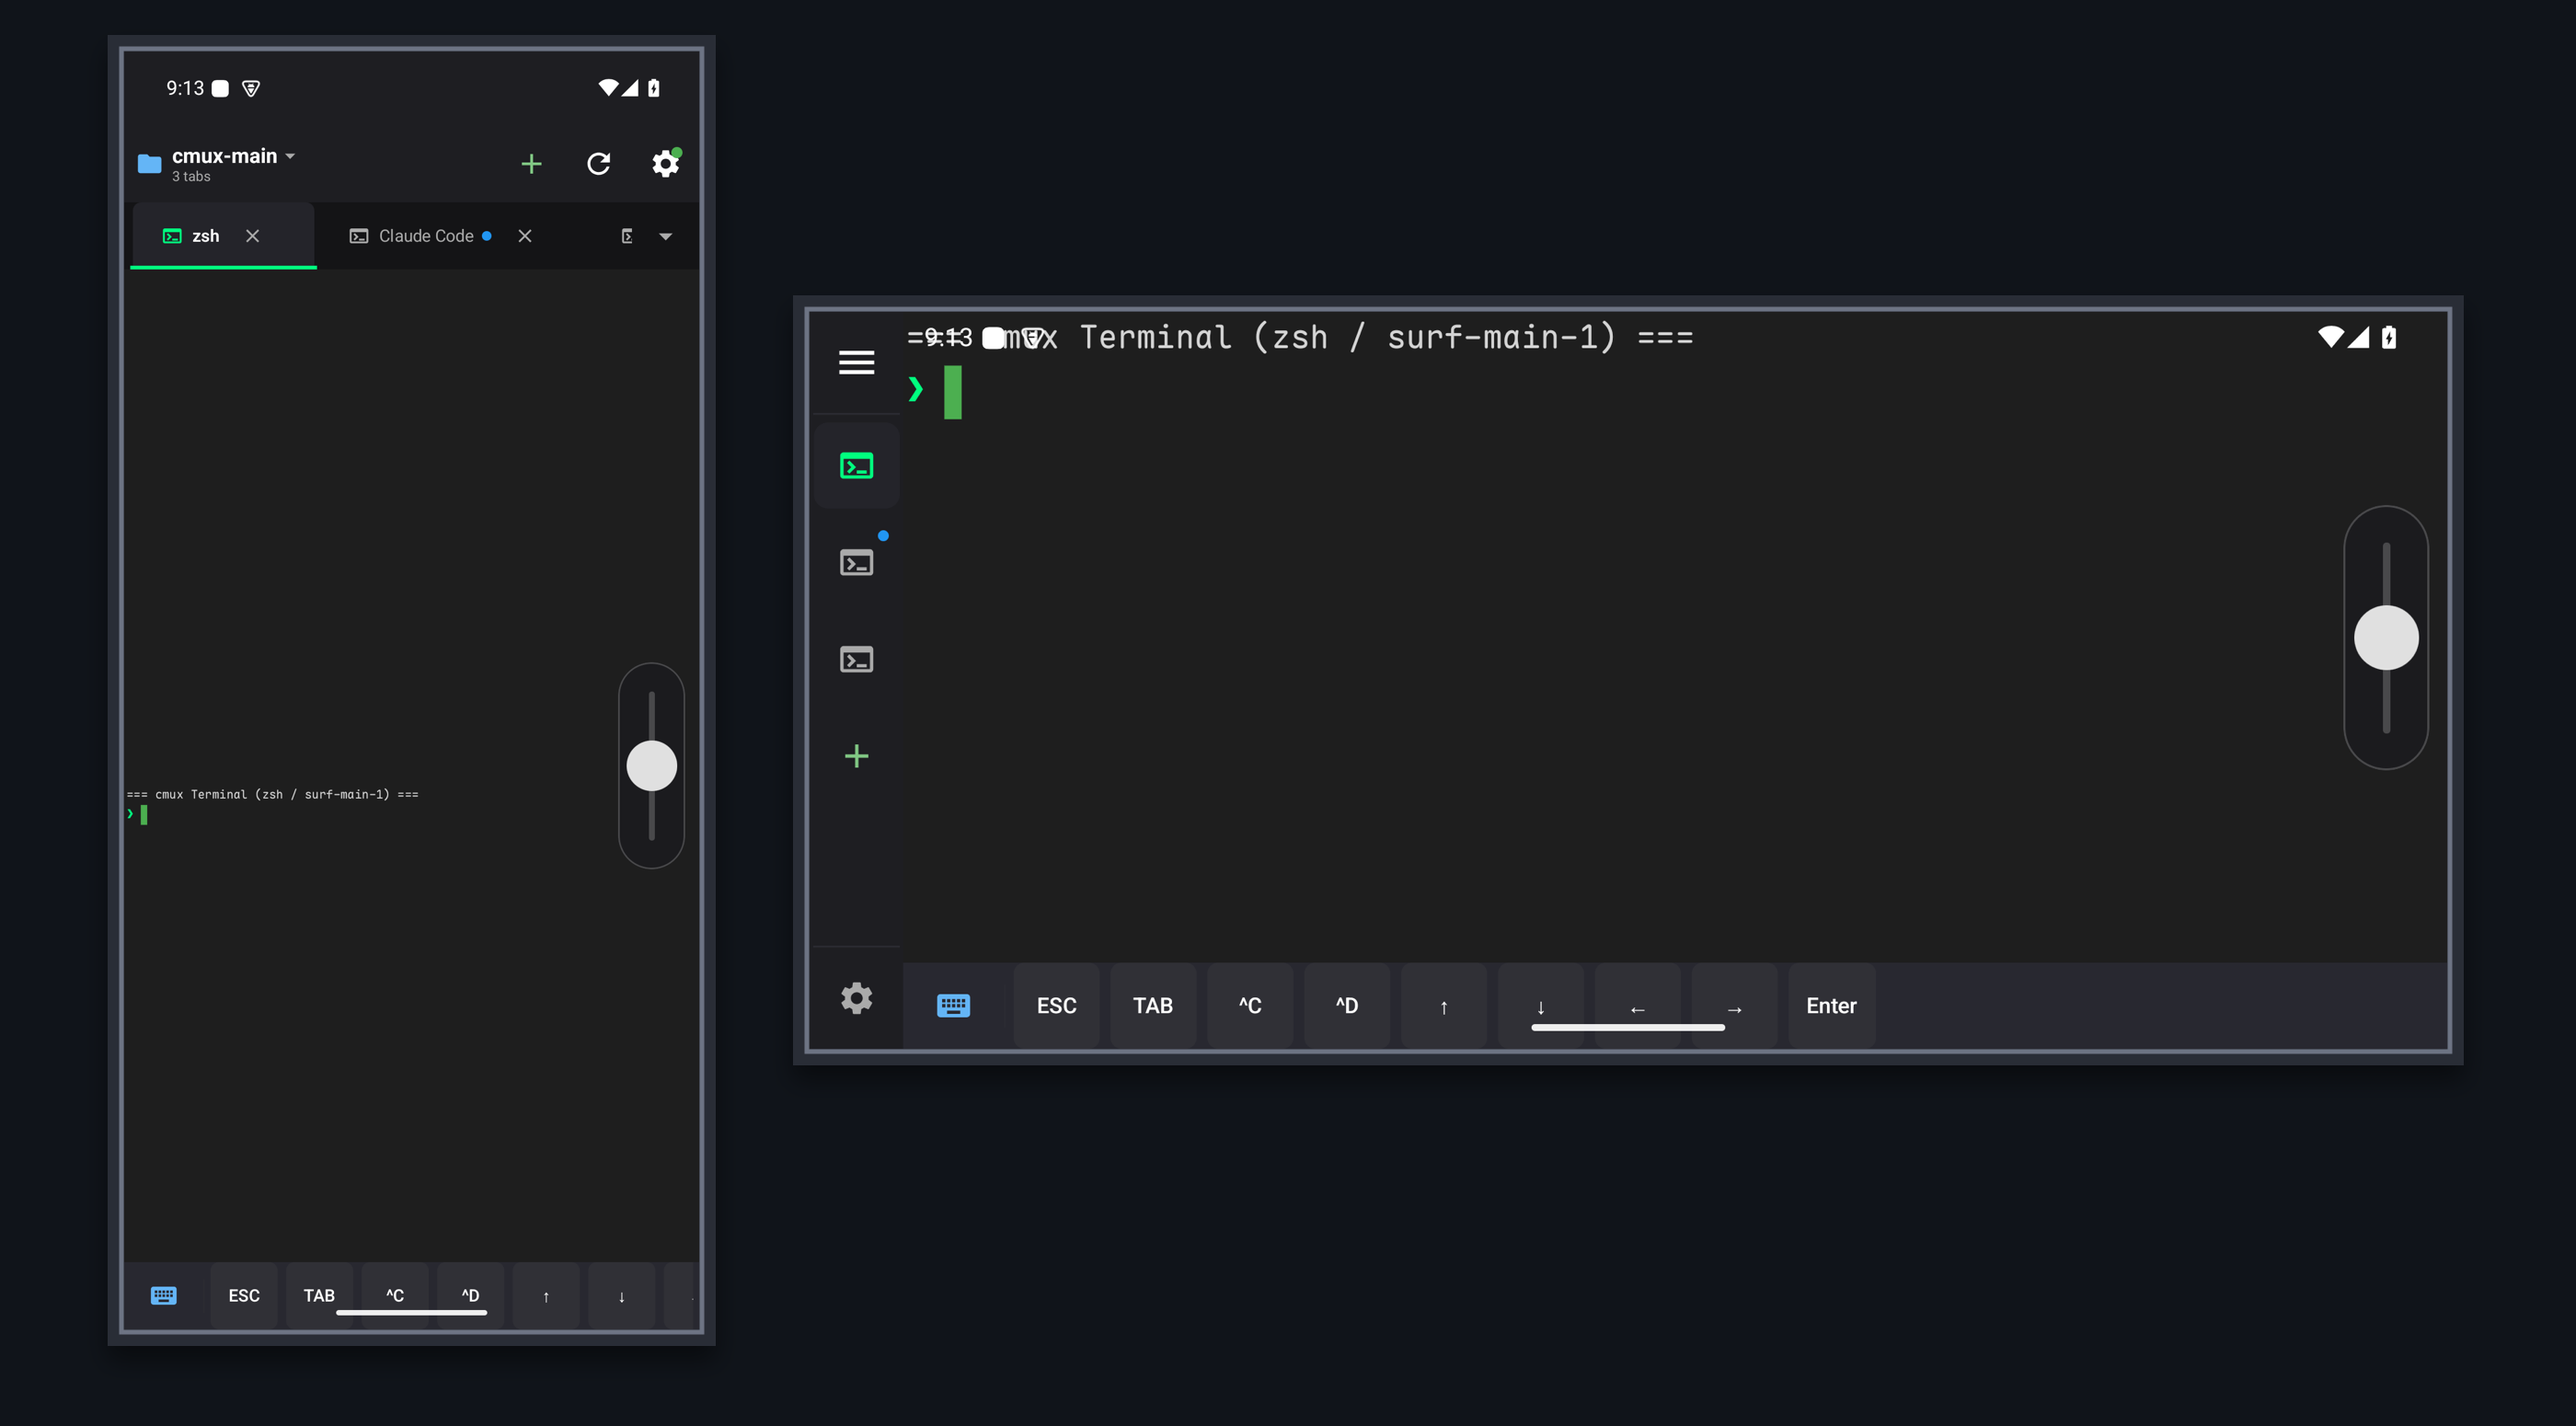
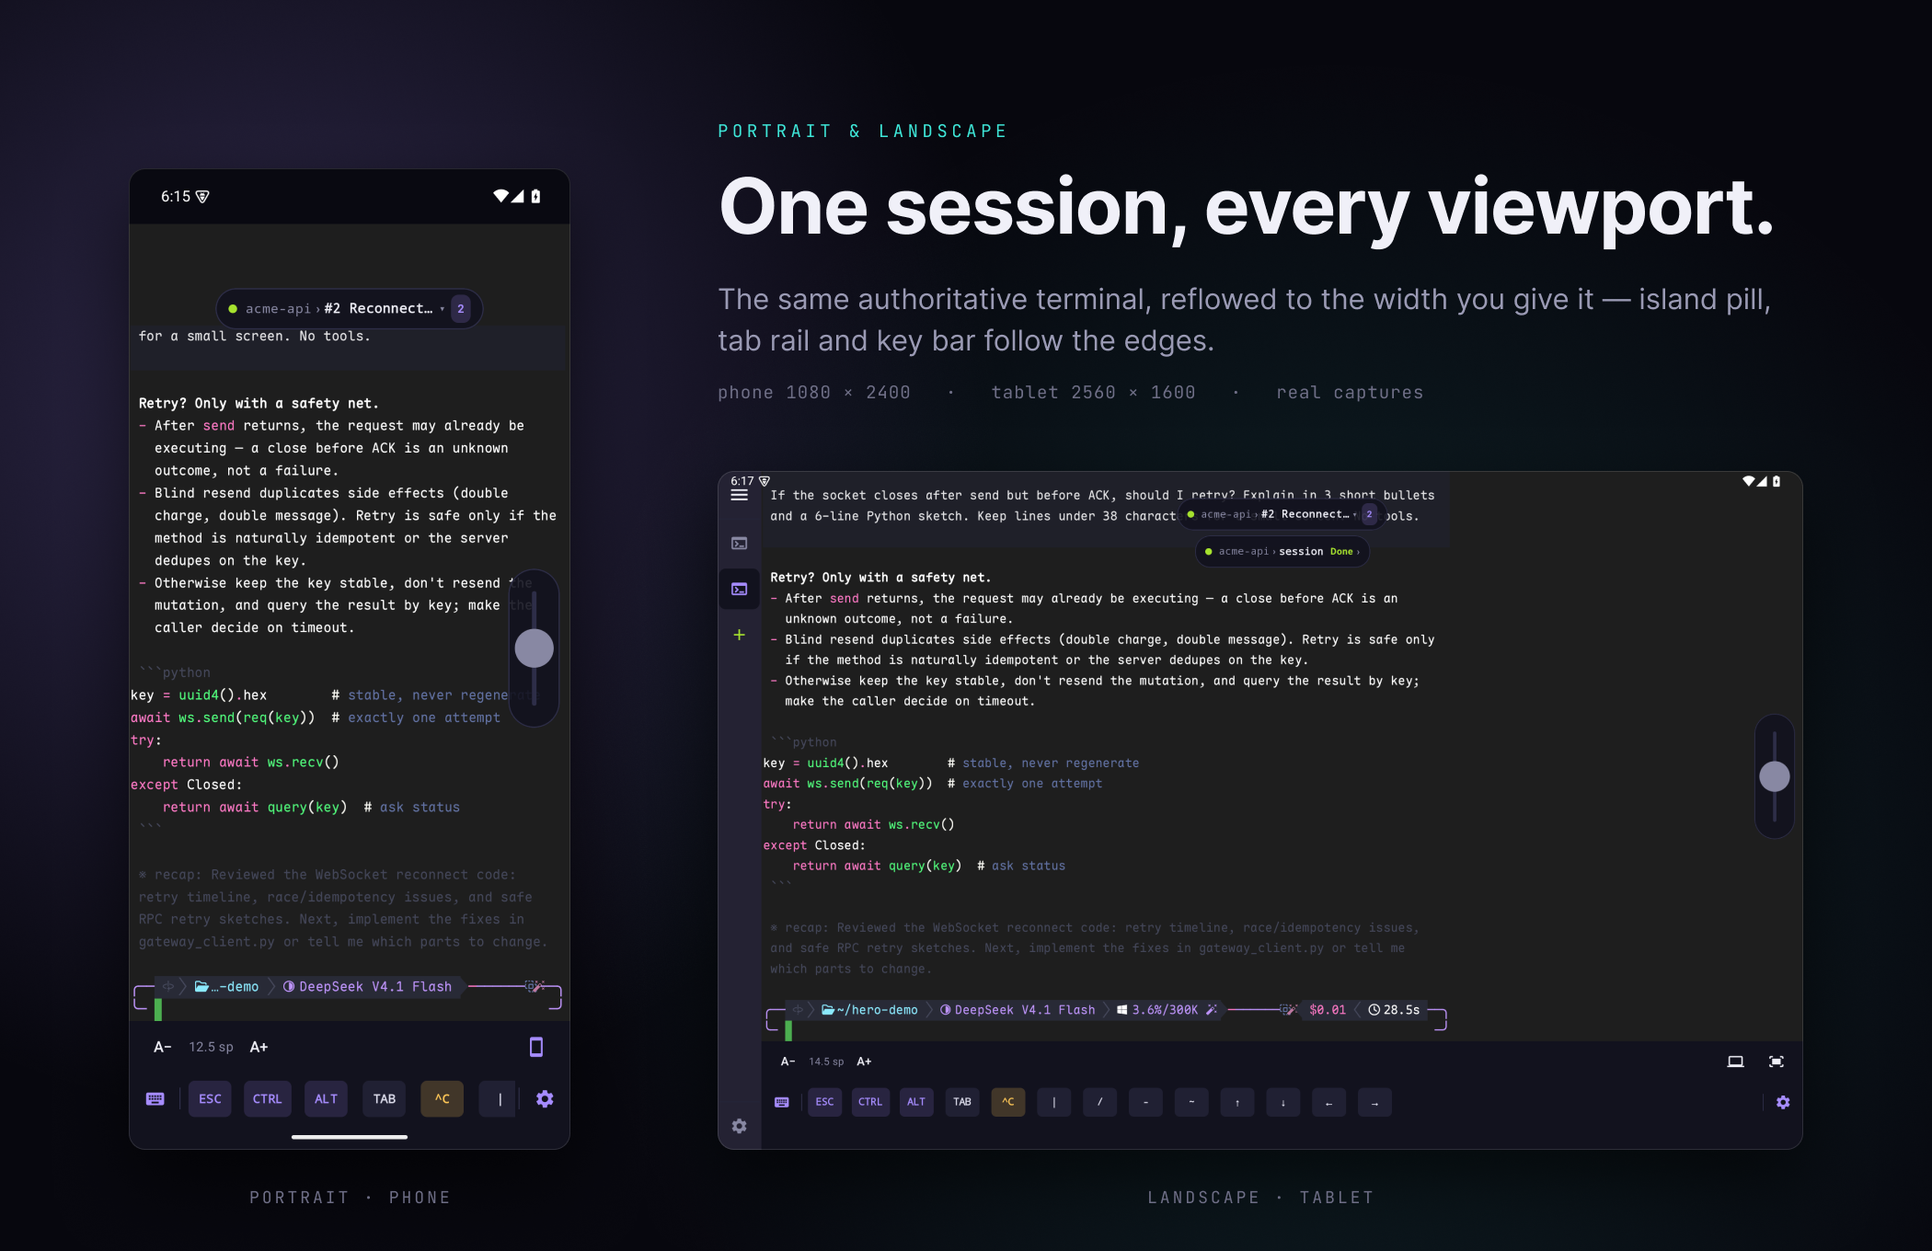
docs: rebuild the interface section figure from real device captures
Replace the hand-framed portrait/landscape composite with a Figma-built
composition: the same live session captured on a phone in portrait
(1080x2400) and a tablet in landscape (2560x1600), labelled and set on
the shared dark canvas used by the other documentation figures.

diff --git a/README.md b/README.md
@@ -111,7 +111,7 @@ Your cmux workspaces and tabs appear immediately on Android.
 
 ## Interface & Interactions
 
-![cmux Pocket: Portrait and Landscape terminal viewports](docs/assets/device-portrait-landscape.png)
+![cmux Pocket: the same live session on a phone in portrait (1080 × 2400) and a tablet in landscape (2560 × 1600)](docs/assets/device-portrait-landscape.png)
 
 ### Terminal Navigation & Sessions
 - **Floating Island Pill**: Shows current workspace, active session number, and connection status. Tapping the pill opens the **Sessions & Surfaces Drawer** to switch workspaces or create new tabs on the fly.
